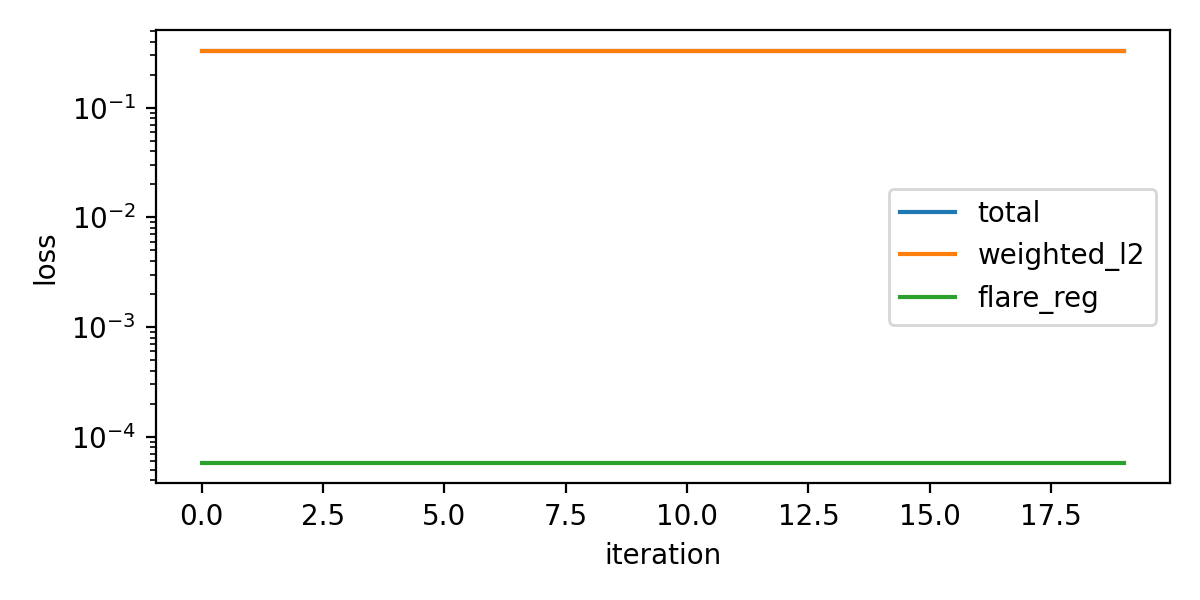
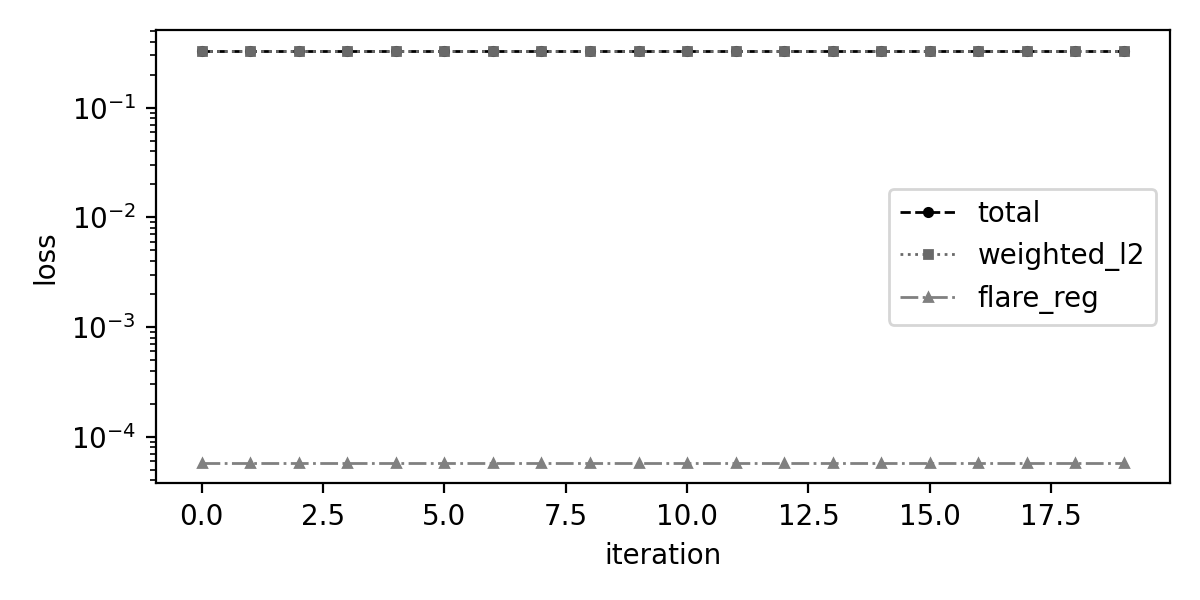
chnages

diff --git a/examples/run_flare_aware_ilt.py b/examples/run_flare_aware_ilt.py
@@ -36,12 +36,12 @@ from pyilt.lithosim import LithoSim
 
 def main():
     cfg = {
-        # Very small iteration count for fast testing
-        "max_iters": 20,
-        "lr": 0.01,
+        # ILT config tuned for clearer convergence on large GPUs
+        "max_iters": 100,
+        "lr": 0.1,
         "flare_weight_beta": 5.0,
-        "flare_reg_weight": 0.1,
-        "lambda1": 1.0,
+        "flare_reg_weight": 0.01,
+        "lambda1": 0.0,
         "theta_M": 10.0,
     }
 
@@ -122,7 +122,7 @@ def main():
 
     print(f"\nResults saved to {outdir}/flare_aware_results.pt")
 
-    # Quick preview of target vs optimized mask
+    # Quick preview of target vs optimized mask (grayscale, print-friendly)
     plt.figure(figsize=(6, 3))
     plt.subplot(1, 2, 1)
     plt.title("Optimized Mask")
@@ -140,11 +140,39 @@ def main():
         plt.show()
     plt.close()
 
-    # Save loss curves
+    # Save loss curves (monochrome, dotted/marker styles for gray printouts)
     plt.figure(figsize=(6, 3))
-    plt.plot(info["history"]["loss"], label="total")
-    plt.plot(info["history"]["weighted_l2"], label="weighted_l2")
-    plt.plot(info["history"]["flare_reg"], label="flare_reg")
+    iters = range(len(info["history"]["loss"]))
+    plt.plot(
+        iters,
+        info["history"]["loss"],
+        linestyle="--",
+        marker="o",
+        color="black",
+        label="total",
+        linewidth=1.0,
+        markersize=3,
+    )
+    plt.plot(
+        iters,
+        info["history"]["weighted_l2"],
+        linestyle=":",
+        marker="s",
+        color="dimgray",
+        label="weighted_l2",
+        linewidth=1.0,
+        markersize=3,
+    )
+    plt.plot(
+        iters,
+        info["history"]["flare_reg"],
+        linestyle="-.",
+        marker="^",
+        color="gray",
+        label="flare_reg",
+        linewidth=1.0,
+        markersize=3,
+    )
     plt.yscale("log")
     plt.xlabel("iteration")
     plt.ylabel("loss")
